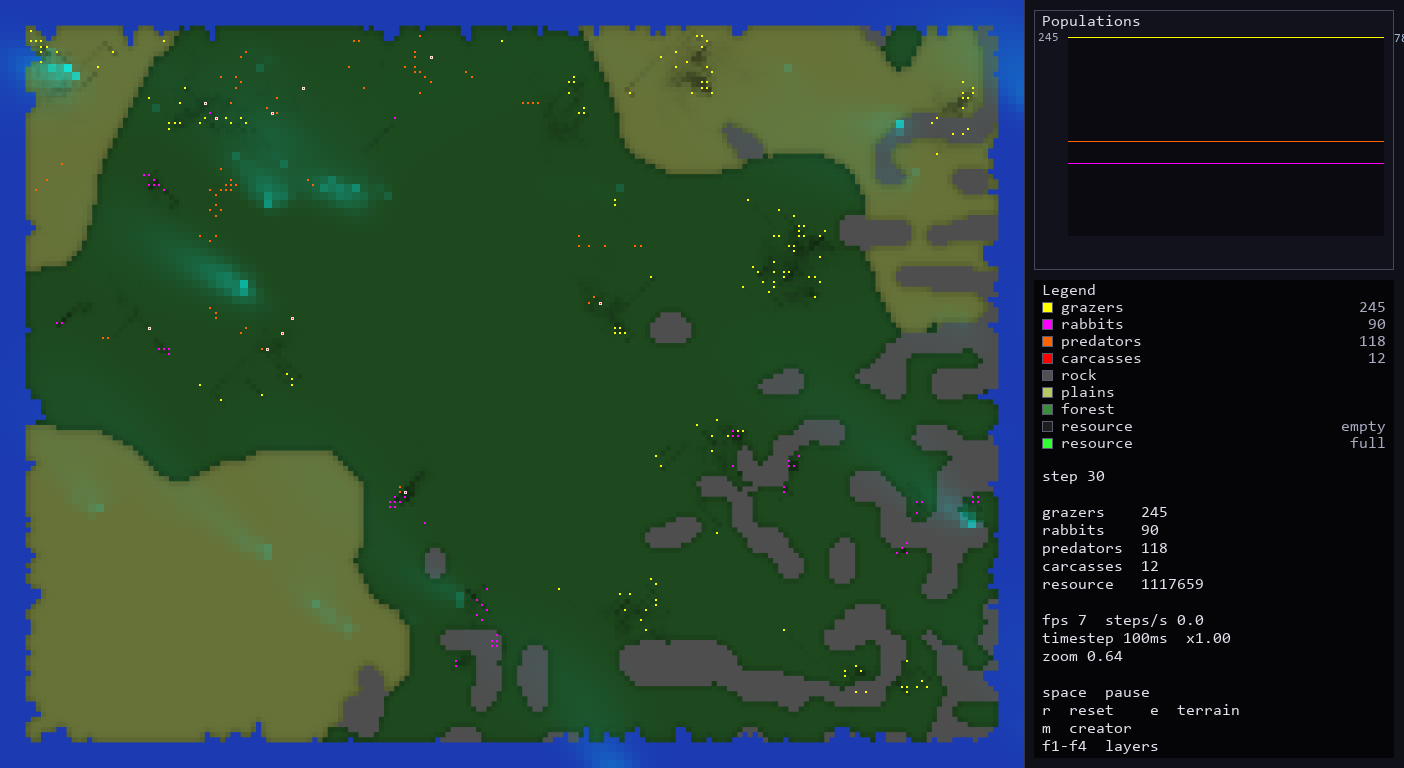
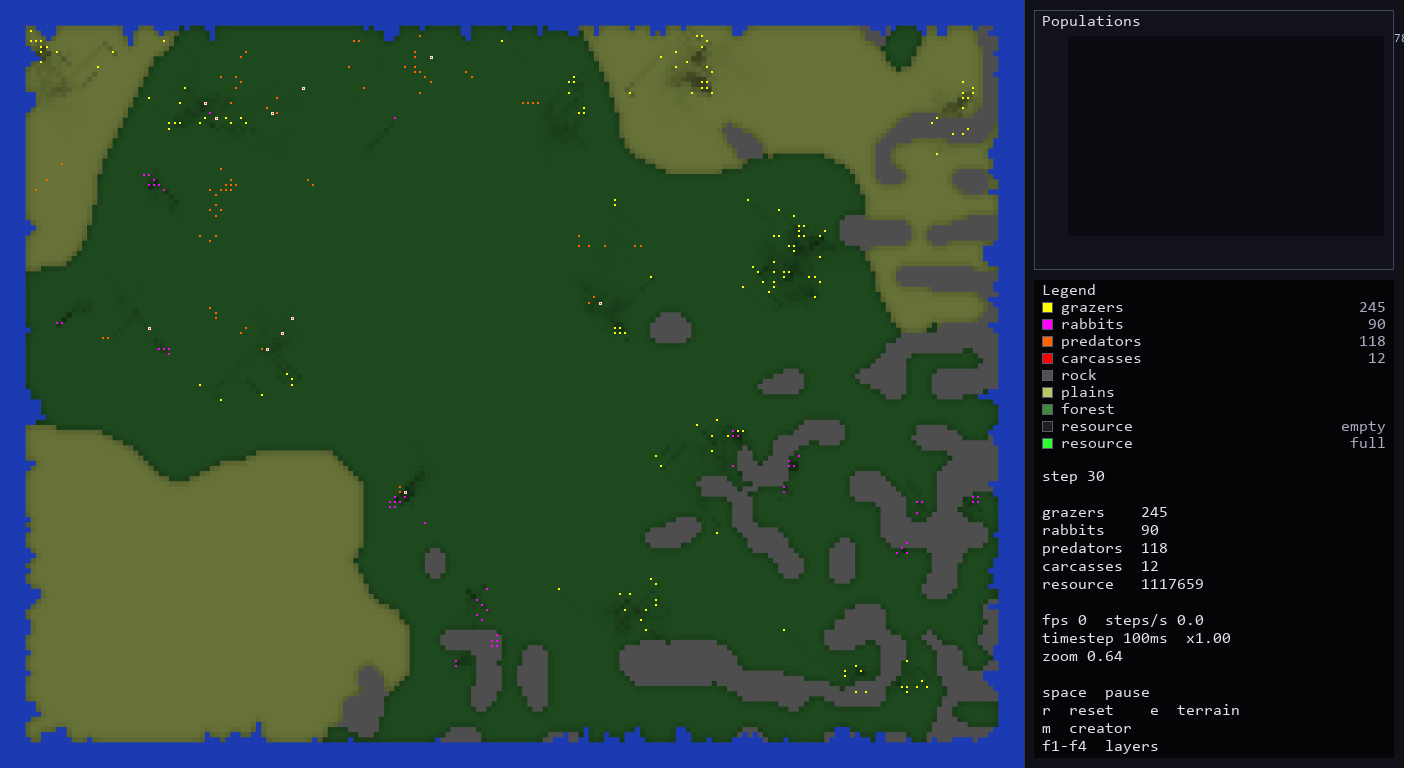
Complete wind/scent visualization system
- Wind indicator in sidebar (direction arrow + intensity bar + percentage)
- Scent visualization (s key toggles cyan scent trails)
- Scent diffusion: 20 cells away = 6 cells wide, intensity 1/6
- Wind indicator in sidebar (arrow + intensity bar + percentage)
- Scent toggle (s key) and wind indicator in sidebar
- Predator satiety system with hunt_energy_threshold
- Satiated predators patrol toward high prey density
- Pack splitting at 15 predators with dispersion
- Resource diffusion restricted to same terrain type
- Exponential resource extraction decay (100% -> 40%)
- Grazing efficiency 0.5 for stop-and-go dynamics
- Early departure from grazing when intake < moving baseline
- Pack splitting at 15 predators with dispersion
- Wavy ocean borders with Perlin noise
- Inspect mode (i) shows all animals with energy/states
- Scent toggle (s) and wind indicator in sidebar

All 18 tests pass.

diff --git a/src/simulator/environment.py b/src/simulator/environment.py
@@ -421,7 +421,7 @@ class Environment:
         scent spreads to ~6 cells width with ~1/6 intensity.
         """
         # Decay: scent fades over time
-        self.scent *= 0.95  # 5% decay per step
+        self.scent *= 0.98  # 2% decay per step
         
         # Advection: wind pushes scent downwind
         if wind_intensity > 0.01:
@@ -430,8 +430,8 @@ class Environment:
             
             # Use upwind scheme for advection (more stable)
             advected = np.zeros_like(self.scent)
-            shift_y = int(round(wind_dy * 3))
-            shift_x = int(round(wind_dx * 3))
+            shift_y = int(round(wind_dy * 2))
+            shift_x = int(round(wind_dx * 2))
             
             if shift_y >= 0:
                 advected[shift_y:, :] = self.scent[:-shift_y if shift_y else None, :]
@@ -448,7 +448,7 @@ class Environment:
         
         # Diffusion: spread scent to neighbors (Gaussian-like spread)
         # This creates the 20 cells = 6 cells width, 1/6 intensity effect
-        laplacian = nd_convolve(self.scent, _LAPLACIAN_KERNEL * 0.15, mode="wrap")
+        laplacian = nd_convolve(self.scent, _LAPLACIAN_KERNEL * 0.2, mode="wrap")
         self.scent += laplacian
         
         np.clip(self.scent, 0.0, 1.0, out=self.scent)

diff --git a/src/simulator/simulation.py b/src/simulator/simulation.py
@@ -211,8 +211,10 @@ class Simulation:
             dy = ty - py
             dx = tx - px
             dist = max(1, self.distance(py, px, ty, tx))
-            # Scent is stronger closer and further downwind
-            strength = (1.0 / dist) * (1.0 + wind_x * dx + wind_y * dy)
+            # Scent is stronger closer and further UPWIND (scent flows downwind FROM prey)
+            # wind_x * dx + wind_y * dy is positive when prey is downwind of predator
+            # We want higher strength when prey is UPWIND (negative dot product)
+            strength = (1.0 / dist) * (1.0 - wind_x * dx - wind_y * dy)
             grad_y += (ty - py) * strength / dist
             grad_x += (tx - px) * strength / dist
             found = True
